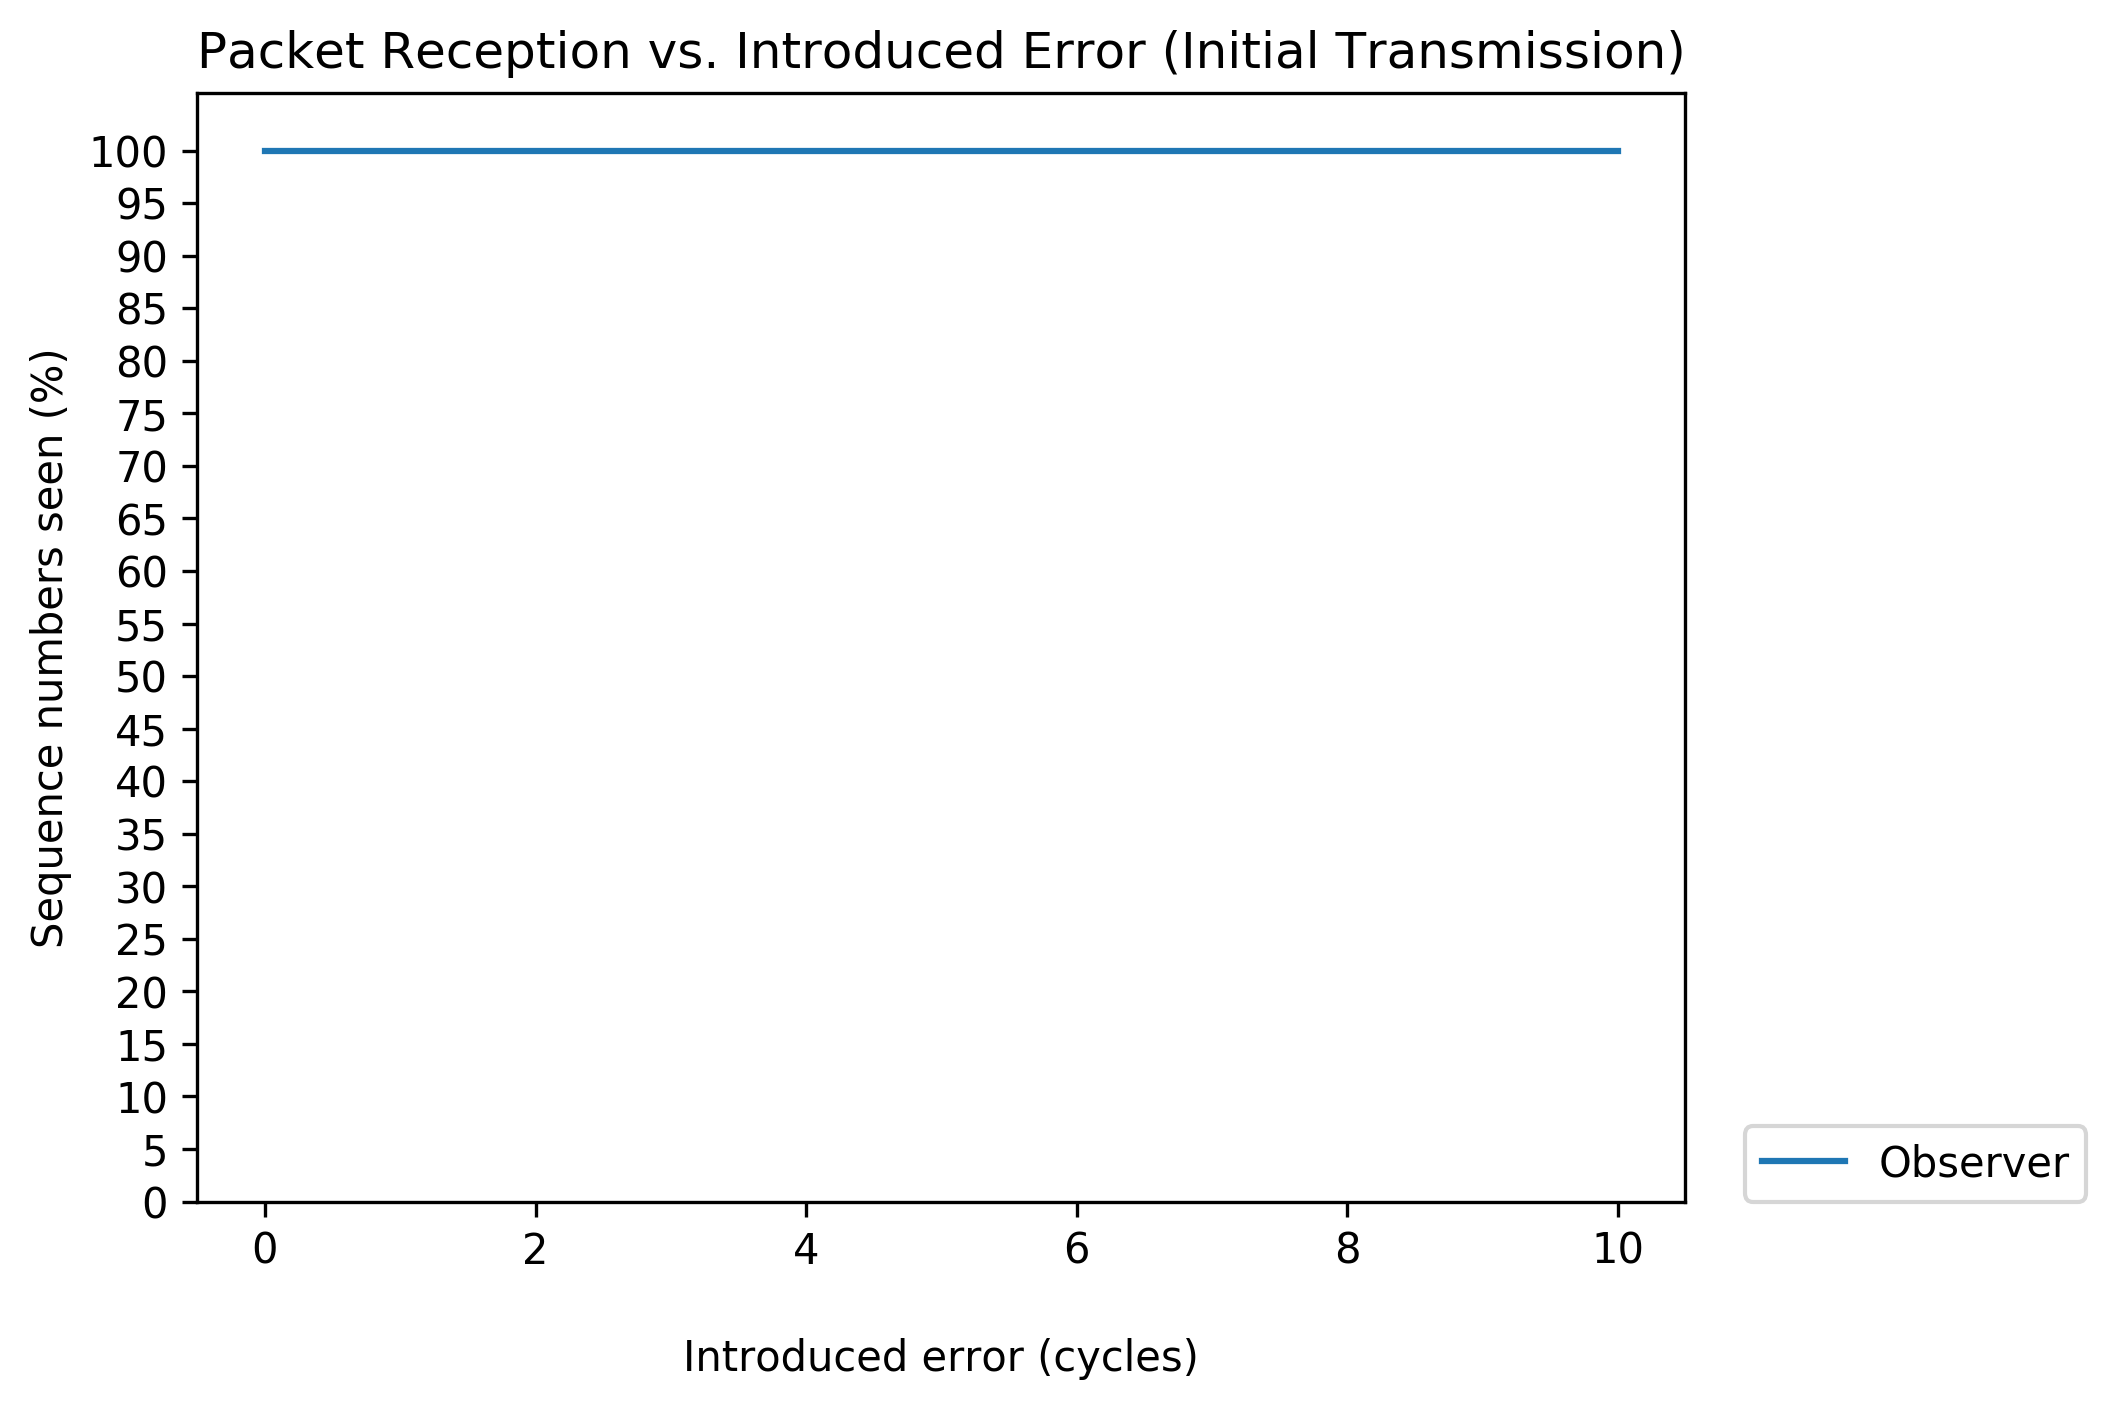
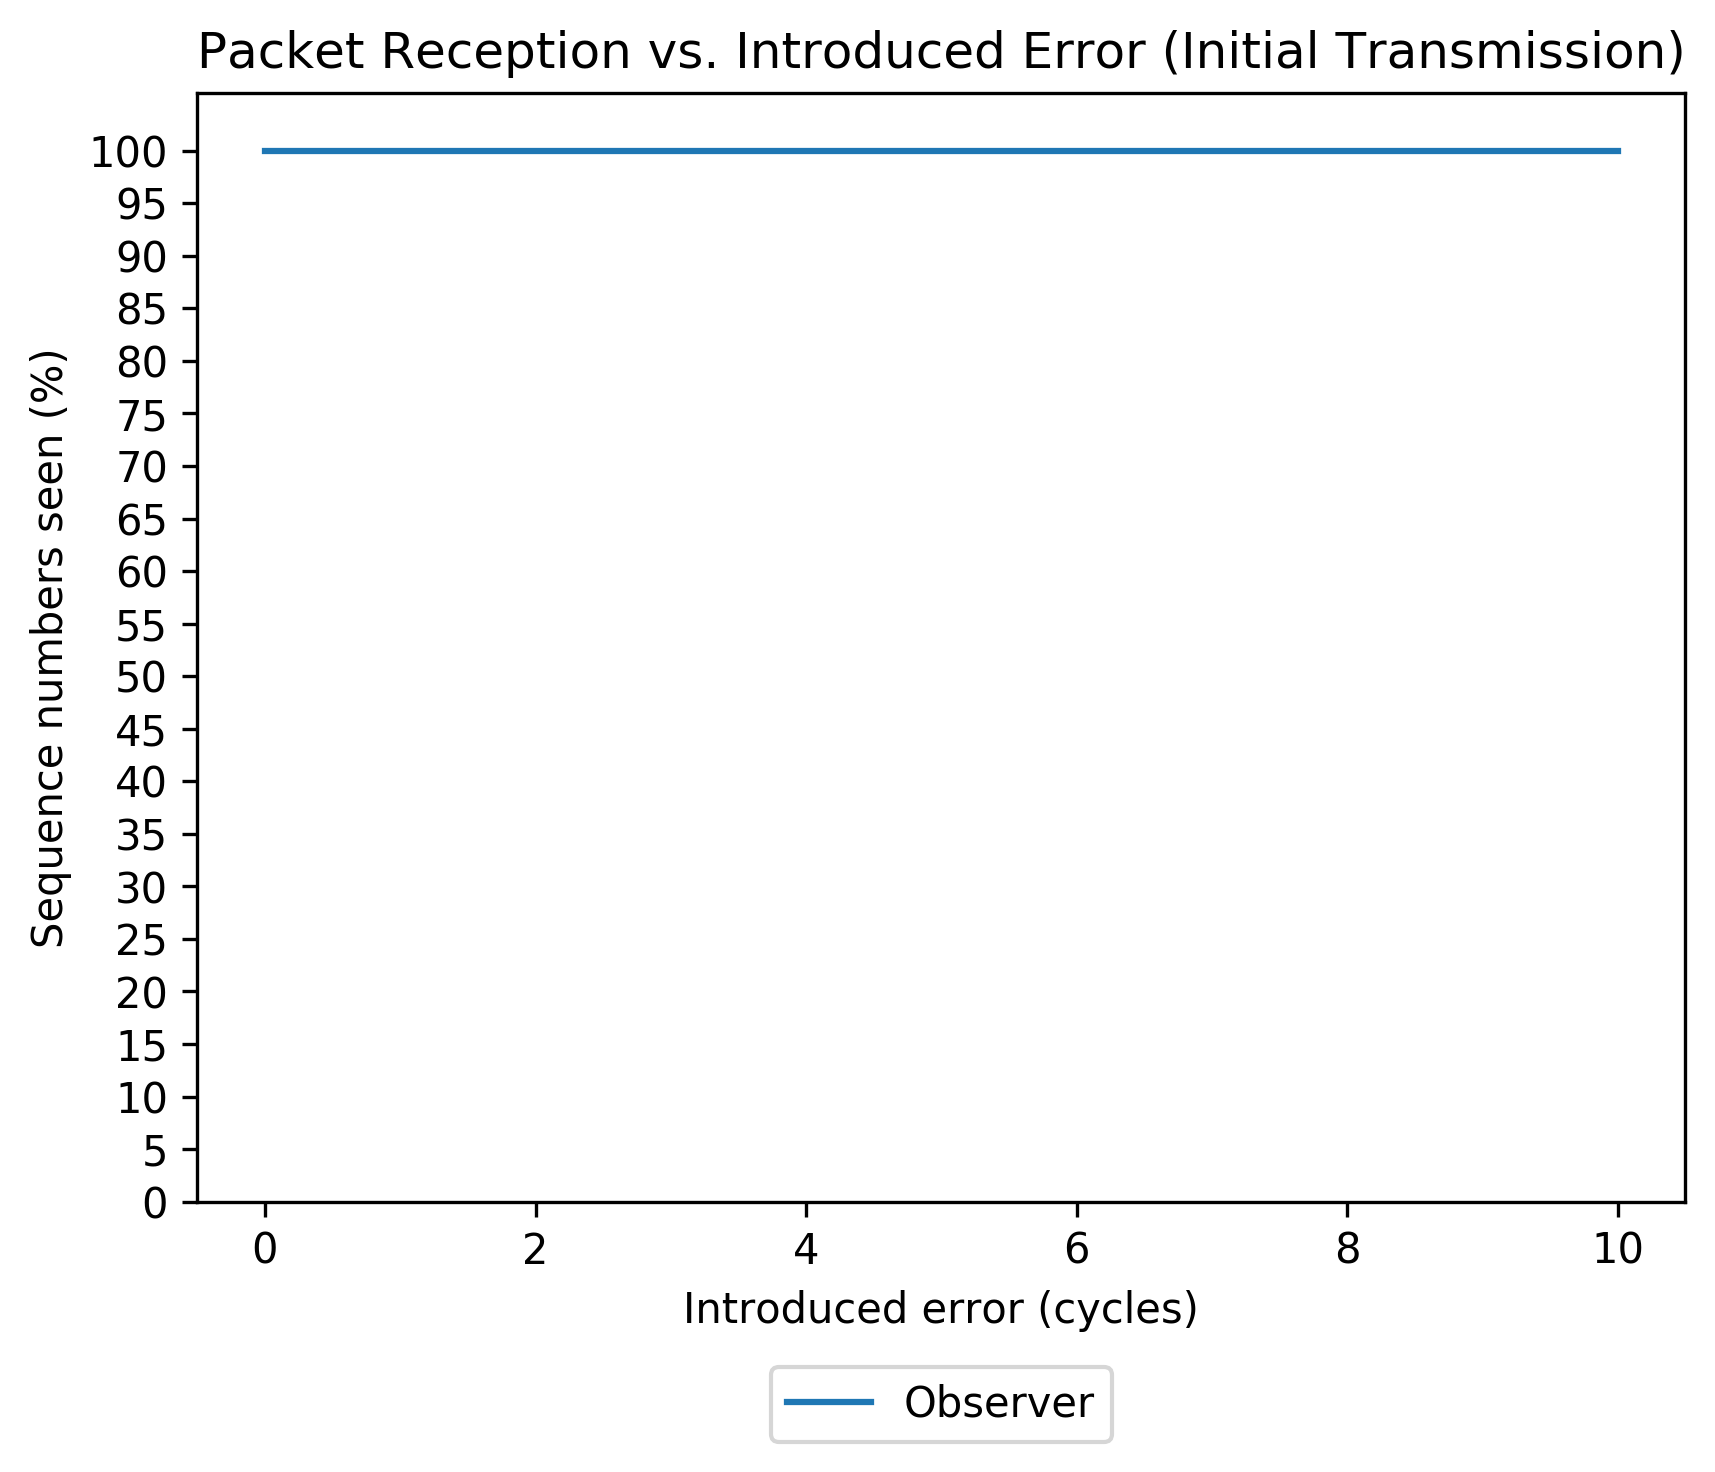
move legend to bottom of plots, neaten labeling and add filtering

Changed region(s): [[0.0, 0.0, 0.9889, 0.905], [0.309, 0.9362, 0.649, 0.9986]]

diff --git a/results/time_series.py b/results/time_series.py
@@ -104,6 +104,10 @@ mapping = {
             "bottom-left":"Bottom Left",
             "top-right":'Top Right'
         },
+        "filter":[
+            ["Transmitter"],
+            []
+        ],
         'sort_list' : ["Transmitter", "Transmitter Observer", "Top Left", "Top Middle", "Top Right", "Bottom Left", "Bottom Middle", "Bottom Right"],
         "label_map" : {
             "test1":"(.1, .1)",
@@ -146,17 +150,17 @@ mapping = {
         },
         "sort_list" : [ "Observer" ],
         "label_map" : {
-            "test1":"0\n",
-            "test2":"1\n",
-            "test3":"2\n",
-            "test4":"3\n",
-            "test5":"4\n",
-            "test6":"5\n",
-            "test7":"6\n",
-            "test8":"7\n",
-            "test9":"8\n",
-            "test10":"9\n",
-            "test11":"10\n",
+            "test1":"0",
+            "test2":"1",
+            "test3":"2",
+            "test4":"3",
+            "test5":"4",
+            "test6":"5",
+            "test7":"6",
+            "test8":"7",
+            "test9":"8",
+            "test10":"9",
+            "test11":"10",
         }
     }
 }
@@ -212,12 +216,25 @@ for idx, df in enumerate(data_frames):
     # sort
     df["df"] = df["df"][current_map["sort_list"]]
 
+    if "filter" in current_map.keys():
+
+        if idx > len(current_map["filter"]):
+            print("Not enough filters specified in map")
+            exit(-1)
+
+        current_filter = current_map["filter"][idx]
+
+        if len(current_filter):
+            for filt in current_filter:
+                del df["df"][filt]
+
     spacing = [i for i in range(0,105,5)]
 
     plt = df["df"].plot.line(title = current_map["title"][idx], rot=0, yticks=(spacing)) #, legend=False
 
     plt.set_ylabel(current_map["y_axis"][idx])
     plt.set_xlabel(current_map["x_axis"][idx])
-    plt.legend(bbox_to_anchor=(1.04,0), loc="lower left", borderaxespad=0)
+    plt.legend(loc='upper center', bbox_to_anchor=(0.5, -0.13), ncol=2)
+    #plt.legend(bbox_to_anchor=(1.04,0), loc="lower left", borderaxespad=0)
     fig = plt.get_figure()
     fig.savefig(t, dpi=300, bbox_inches = "tight")
